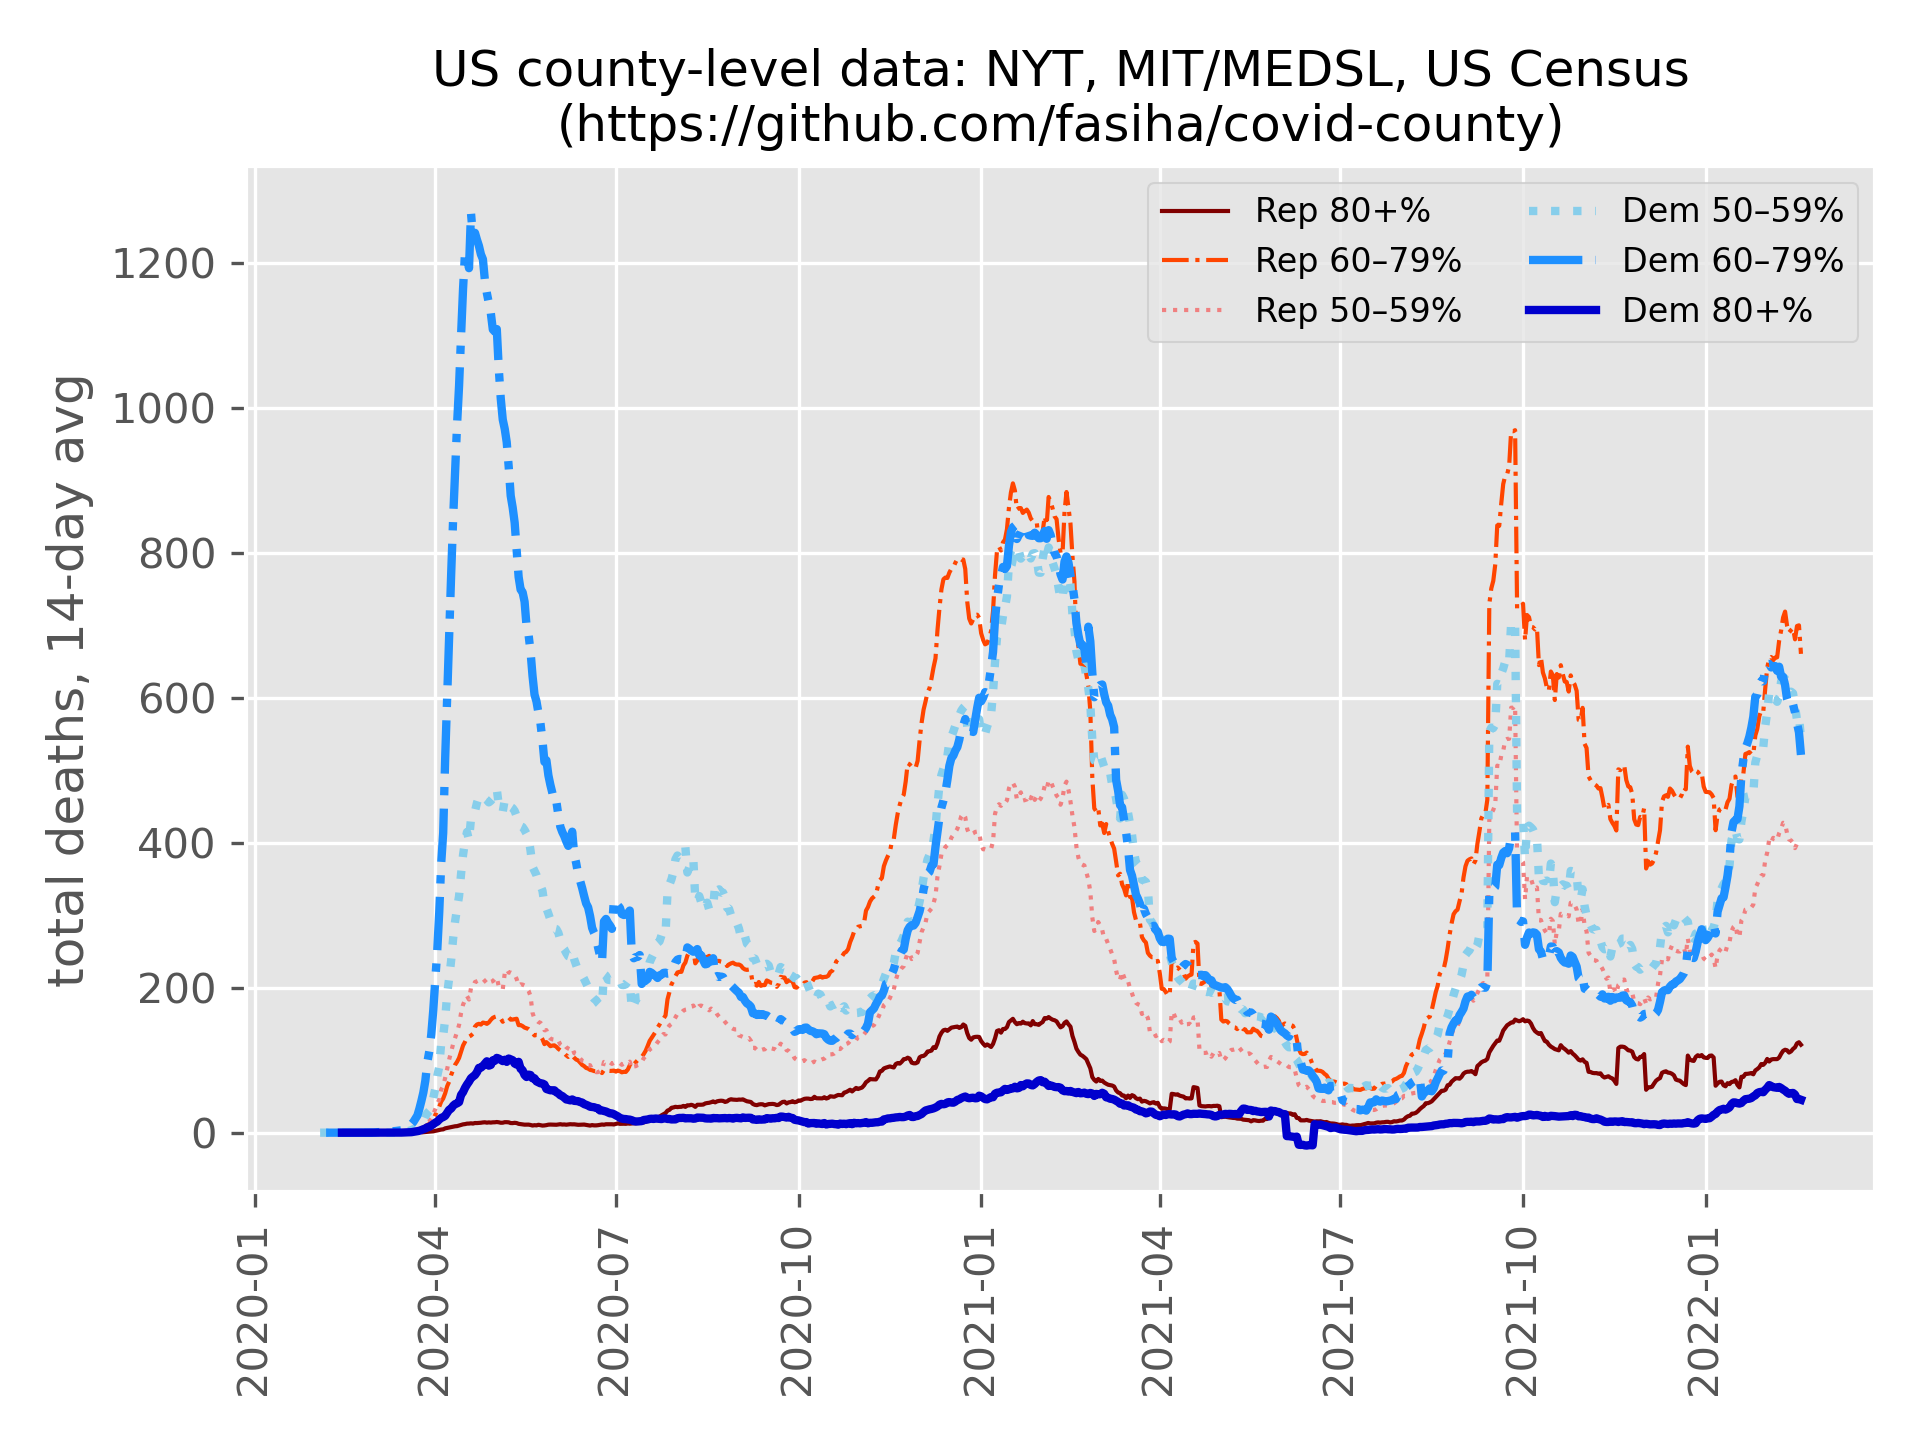
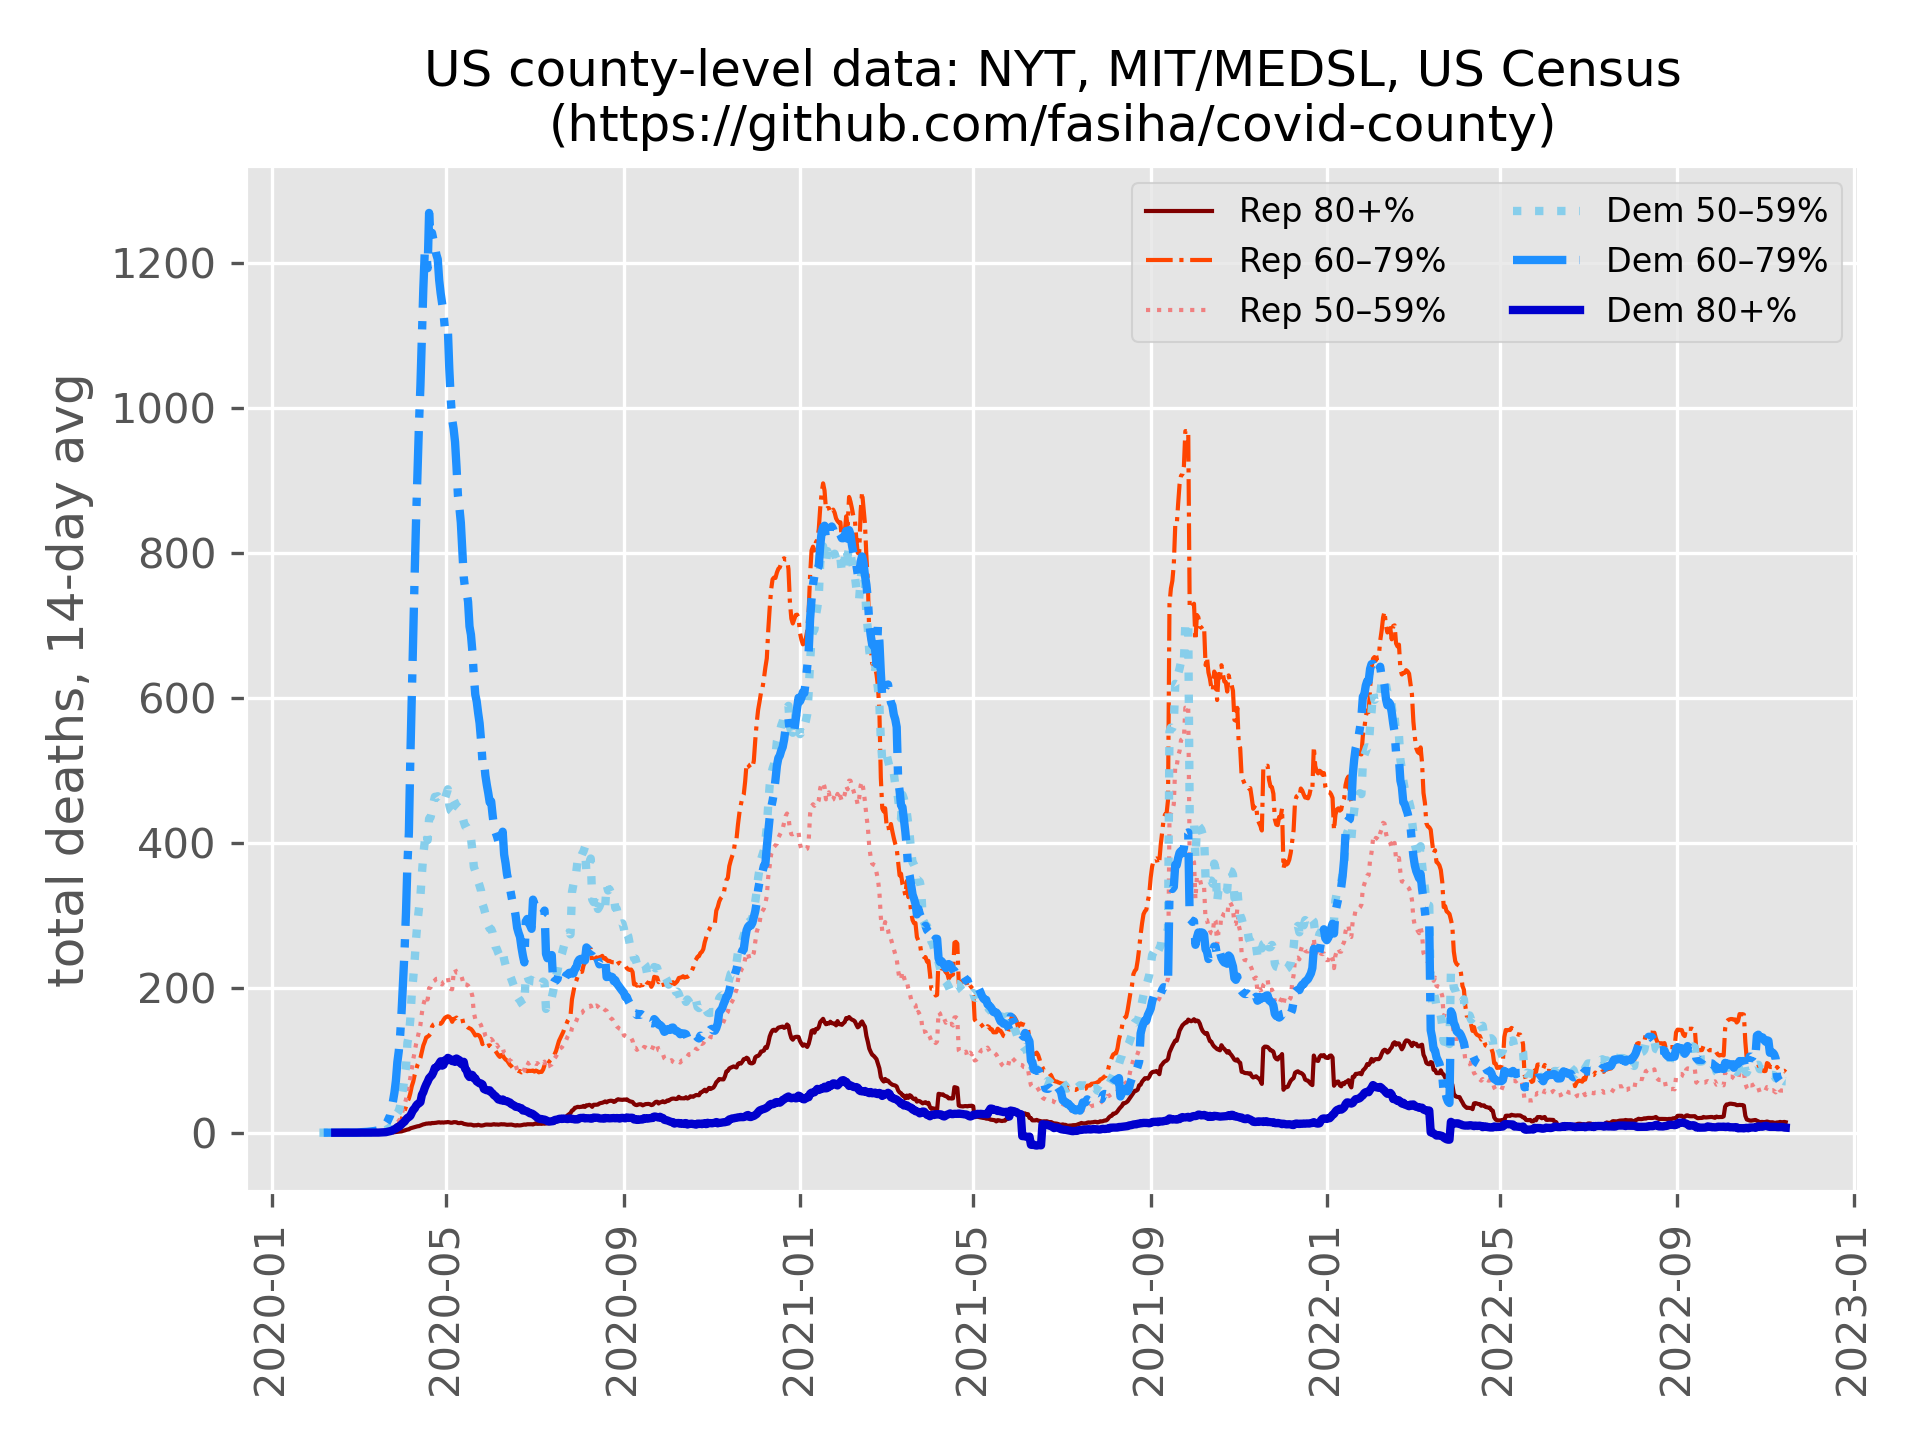
update

diff --git a/main.py b/main.py
@@ -94,6 +94,7 @@ print(by_bin.sort_index(ascending=False).to_markdown())
 by_party = geoid_to_deaths.dropna().groupby(
     lambda x: geoid_to_deaths.loc[x].dem > 0.5)['deaths'].sum()
 print(by_party)
+print("true: Dem, false: Rep")
 
 
 ## plot

diff --git a/README.md b/README.md
@@ -34,14 +34,14 @@ python main.py
 ## More results
 | party bin  | total Covid-19 deaths |
 | :--------- | --------------------: |
-| Rep 80+%   |                 44480 |
-| Rep 60–79% |                247023 |
-| Rep 50–59% |                144265 |
-| Dem 50–59% |                224710 |
-| Dem 60–79% |                239841 |
-| Dem 80+%   |                 20980 |
-| unknown    |                  8745 |
+| Rep 80+%   |    52584 |
+| Rep 60–79% |   287545 |
+| Rep 50–59% |   167310 |
+| Dem 50–59% |   257946 |
+| Dem 60–79% |   269702 |
+| Dem 80+%   |    23503 |
+| unknown    |     7803 |
 
 Simply by party:
-- Dem: 485531
-- Rep: 435768
+- Dem: 551151
+- Rep: 507439
